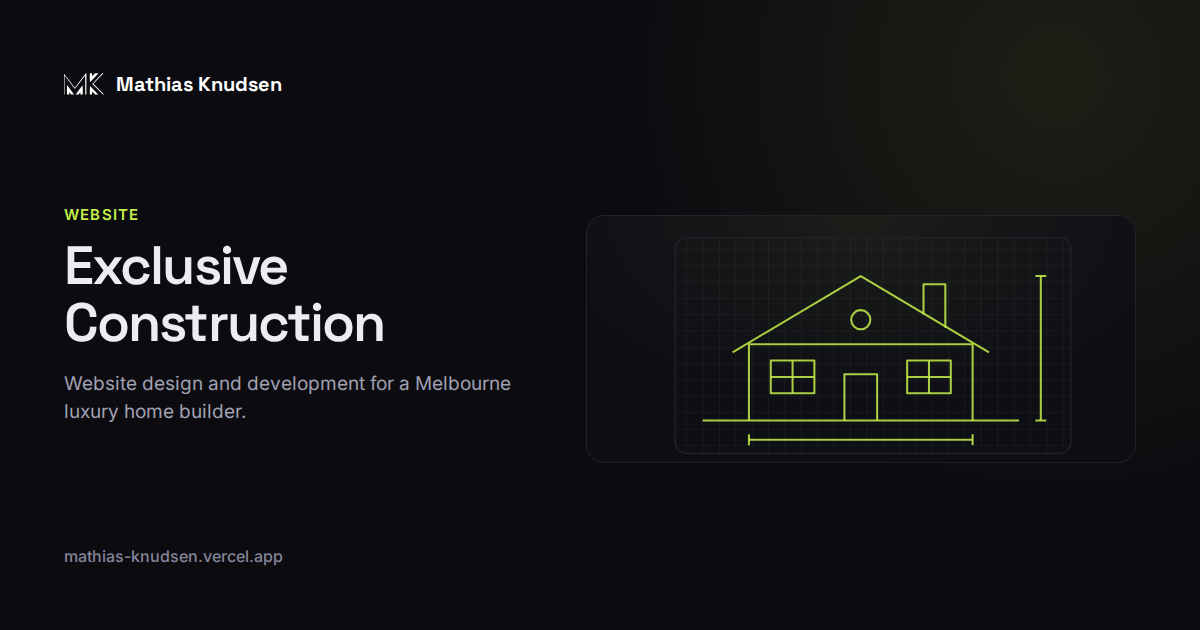
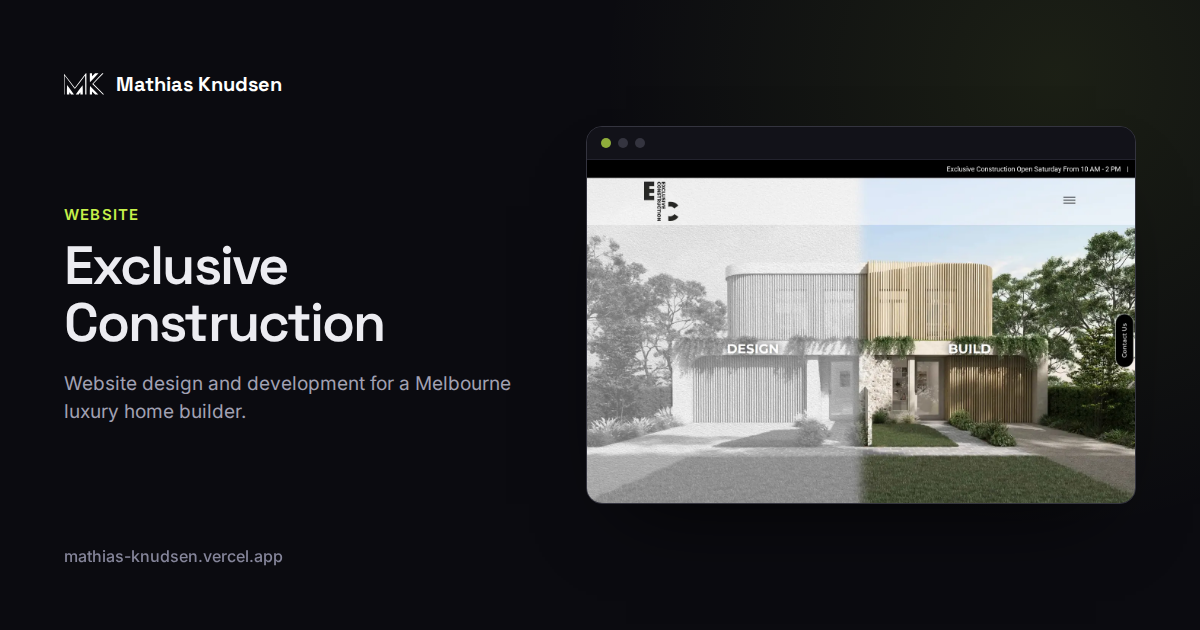
Screens of the live sites for Pro-Ject Audio Australia, Pro-Ject Audio Systems and Exclusive Construction
- Each page now opens on the real site, followed by its screens (six or
  seven desktop views and two phone views), described and captioned in
  English and French
- Pro-Ject Audio Australia and Interdyn are the same client: both case
  studies now say it
- Their link previews show the real site instead of the drawing

Claude-Session: https://claude.ai/code/session_01Af4ypNwssAxvDeozZygU7V

Changed region(s): [[0.4625, 0.2413, 0.9558, 0.8143], [0.0617, 0.8746, 0.2467, 0.9048], [0.4933, 0.2111, 0.555, 0.2413]]

diff --git a/src/i18n.js b/src/i18n.js
@@ -27,6 +27,42 @@ const INTERDYN_MEDIA = [
   { src: '/media/interdyn/checkout.webp', width: 1440, height: 713 },
 ]
 
+// Pro-Ject Audio Australia, Pro-Ject Audio Systems and Exclusive Construction:
+// screens of the live sites
+const PROJECT_AU_MEDIA = [
+  { src: '/media/project-au/home.webp', width: 1440, height: 900 },
+  { src: '/media/project-au/menu.webp', width: 1440, height: 900 },
+  { src: '/media/project-au/black-friday.webp', width: 1440, height: 900 },
+  { src: '/media/project-au/systems.webp', width: 1440, height: 900 },
+  { src: '/media/project-au/product.webp', width: 1440, height: 900 },
+  { src: '/media/project-au/turntables.webp', width: 1440, height: 900 },
+  { src: '/media/project-au/phone-home.webp', width: 780, height: 1688, phone: true },
+  { src: '/media/project-au/phone-product.webp', width: 780, height: 1688, phone: true },
+]
+
+const PROJECT_GLOBAL_MEDIA = [
+  { src: '/media/project-global/debut-evo-2.webp', width: 1440, height: 900 },
+  { src: '/media/project-global/turntables.webp', width: 1440, height: 900 },
+  { src: '/media/project-global/whats-new.webp', width: 1440, height: 900 },
+  { src: '/media/project-global/home.webp', width: 1440, height: 900 },
+  { src: '/media/project-global/sustainable-hifi.webp', width: 1440, height: 900 },
+  { src: '/media/project-global/true-balanced.webp', width: 1440, height: 900 },
+  { src: '/media/project-global/phone-home.webp', width: 780, height: 1688, phone: true },
+  { src: '/media/project-global/phone-product.webp', width: 780, height: 1688, phone: true },
+]
+
+const EXCLUSIVE_MEDIA = [
+  { src: '/media/exclusive/home.webp', width: 1440, height: 900 },
+  { src: '/media/exclusive/intro.webp', width: 1440, height: 900 },
+  { src: '/media/exclusive/portfolio.webp', width: 1440, height: 900 },
+  { src: '/media/exclusive/suburb.webp', width: 1440, height: 900 },
+  { src: '/media/exclusive/consultation.webp', width: 1440, height: 900 },
+  { src: '/media/exclusive/process.webp', width: 1440, height: 900 },
+  { src: '/media/exclusive/faq.webp', width: 1440, height: 900 },
+  { src: '/media/exclusive/phone-home.webp', width: 780, height: 1688, phone: true },
+  { src: '/media/exclusive/phone-suburb.webp', width: 780, height: 1688, phone: true },
+]
+
 // Pairs the shared media with the text of one language
 const withText = (media, texts) => media.map((item, i) => ({ ...item, ...texts[i] }))
 
@@ -171,7 +207,7 @@ const translations = {
         summary: 'Dealernet, the platform where Australian hi-fi retailers order from their distributor, Interdyn. I have been building it, end to end, since 2024.',
         story: [
           'Interdyn (International Dynamics) distributes hi-fi and audiovisual brands to retailers across Australia. Its dealers needed one place to browse the range, order stock and follow their orders, and its team needed to work in that same place on their behalf.',
-          "Dealernet is the platform I build for them, from the database to the interface: a catalogue organised by category and by brand, a cart and checkout made for trade orders, and the tools Interdyn's team uses to place and adjust orders for any dealer.",
+          "Dealernet is the platform I build for them, from the database to the interface: a catalogue organised by category and by brand, a cart and checkout made for trade orders, and the tools Interdyn's team uses to place and adjust orders for any dealer. For the same client, I also built and run the Pro-Ject Audio Australia store.",
         ],
         did: [
           'Fullstack development since 2024: Django and PostgreSQL behind, React and HTMX in front, styled with Tailwind',
@@ -203,8 +239,8 @@ const translations = {
         desc: 'Custom Shopify theme for the official Australian distributor of Pro-Ject turntables and audio components. Product pages, landing pages, seasonal campaigns, and a full Black Friday promotional experience, coded by hand from a bespoke Figma design.',
         summary: 'Custom Shopify theme for the official Australian distributor of Pro-Ject turntables and audio components.',
         story: [
-          'Pro-Ject Audio Australia is the online store of Pro-Ject in Australia, run by its official distributor. It sells the whole range: turntables from entry level to high end, complete hi-fi systems, electronics and accessories, with a store finder for people who want to listen before they buy.',
-          'I built the store from end to end: a Shopify theme coded by hand in Liquid, JavaScript and CSS from a bespoke Figma design, then every page and campaign since 2024, from product pages and landing pages to seasonal specials and Black Friday.',
+          'Pro-Ject Audio Australia is the online store of Pro-Ject in Australia, run by its official distributor, Interdyn. It sells the whole range: turntables from entry level to high end, complete hi-fi systems, electronics and accessories, with a store finder for people who want to listen before they buy.',
+          'I built the store from end to end: a Shopify theme coded by hand in Liquid, JavaScript and CSS from a bespoke Figma design, then every page and campaign since 2024, from product pages and landing pages to seasonal specials and Black Friday. For the same client, I also build Dealernet, the platform its dealers order from.',
         ],
         did: [
           'A custom Shopify theme, coded by hand in Liquid, JavaScript and CSS from a bespoke Figma design',
@@ -220,6 +256,16 @@ const translations = {
           { title: 'Systems sold as one product', text: 'Complete systems, from the Juke Box E1 Hi-Fi Set to the Classic Debut Hi-Fi Pack, are sold as one product: the card gives a one-line summary, the finishes it comes in, and the price before and after the saving.' },
           { title: 'Two ways into the range', text: 'The range can be browsed by budget and use (budget friendly, designer value, all-rounders, high end) or by product line (Debut, Primary, E Line, T Line, Juke Box): one way for a first turntable, one for someone who already knows the names.' },
         ],
+        gallery: withText(PROJECT_AU_MEDIA, [
+          { alt: 'Home page of the Pro-Ject Audio Australia store: a turntable between two speakers under the headline The very best of both worlds, below a menu with Specials, Turntables, Hi-Fi Sets, Hi-Fi Components and Find a Store', caption: 'The home page, with the specials and the store finder one click away.' },
+          { alt: 'The Hi-Fi Components menu open: each category with an icon and one line saying what it is for', caption: 'The menu explains each category in one line.' },
+          { alt: 'Black Friday 2025 page: the end of the sale, free shipping, 1 to 3 day dispatch and Australian support, then the discount on each turntable line', caption: 'Black Friday, on its own page: the offers line by line.' },
+          { alt: 'Turntable hi-fi systems: the Juke Box E1 Hi-Fi Set, the Classic Debut Hi-Fi Pack and the T2 Super Set, each with its finishes', caption: 'Complete systems, each card with its finishes.' },
+          { alt: 'Product page of the Juke Box E1 Hi-Fi Set: the photos, the finish picker, a Where to buy button and what is included', caption: "A system's page: pick a finish, see what is included, find where to buy." },
+          { alt: 'Turntables page: the product lines (Primary, E Line, T Line), each with a photo and a short promise', caption: 'Turntables, line by line.' },
+          { alt: 'The home page on a phone', caption: 'On a phone: the home page and a product page.' },
+          { alt: 'The Juke Box E1 Hi-Fi Set page on a phone' },
+        ]),
         tags: ['Shopify', 'Liquid', 'JavaScript', 'CSS'],
         link: 'https://www.projectaudio.com.au/',
       },
@@ -246,6 +292,16 @@ const translations = {
           { title: 'Two languages, one catalogue', text: 'Every page exists in German and English, linked to each other for search engines (hreflang), so each visitor lands in their own language.' },
           { title: 'Everything after the purchase', text: 'Owners find what they need in one place: a dealer finder, the FAQ, the warranty, software updates, manuals and brochures to download, and an archive of past models.' },
         ],
+        gallery: withText(PROJECT_GLOBAL_MEDIA, [
+          { alt: 'Debut EVO 2 product page: the turntable on a white plinth under its name, with Configurator, Buy local and Buy now buttons, and links to the specifications, downloads and reviews', caption: 'A product page: the Debut EVO 2, with its configurator and where to buy it.' },
+          { alt: 'Turntables page: the product lines listed on the left (Automat, E Line, Vertical, Juke Box, T Line, Debut and more) next to a photo of a blue turntable', caption: 'Turntables, sorted by line.' },
+          { alt: "Debut EVO 2 page, What's new: four features (the platter, the bearing block, the Pick it MM EVO cartridge, the counterweight) drawn in line", caption: 'What is new, feature by feature.' },
+          { alt: 'Home page: a limited edition turntable presented on black', caption: 'The home page leads with launches and limited editions.' },
+          { alt: 'Sustainable HiFi page: a map of central Europe showing that 95% of the goods are made within 440 km of the headquarters', caption: "Sustainable hi-fi: the brand's story, told with a map." },
+          { alt: 'True Balanced page: an illustration of the electrical noise around a turntable in a modern home', caption: 'True Balanced: a technical idea made visual.' },
+          { alt: 'The home page on a phone', caption: 'On a phone: the home page and a product page.' },
+          { alt: 'The Debut EVO 2 page on a phone' },
+        ]),
         tags: ['WordPress', 'CSS', 'JavaScript', 'WooCommerce'],
         link: 'https://www.project-audio.com/en/',
       },
@@ -274,6 +330,17 @@ const translations = {
           { title: 'Questions answered before the call', text: 'The home page answers the questions every client asks first (do you only build luxury homes, can you build from my plans, how do I start), and the quote form is on the same page.' },
           { title: 'Proof from real clients', text: 'Their Google reviews show on the site itself, next to their trusted partners: trust comes from the people who have already built with them.' },
         ],
+        gallery: withText(EXCLUSIVE_MEDIA, [
+          { alt: 'Home page of Exclusive Construction: a house drawn in pencil on the left that becomes a photo on the right, under the words Design and Build', caption: 'The home page: the design on one side, the built house on the other.' },
+          { alt: "Introduction: the builder's promise above photos of finished interiors", caption: 'Finished work, right after the promise.' },
+          { alt: 'Portfolio page: Excellence in construction, above a grid of kitchen and bathroom photos', caption: 'The portfolio: the work does the talking.' },
+          { alt: 'Home Builders Bentleigh page: a living room photo with Book a consultation and Call now buttons', caption: 'A page for each suburb they build in, here Bentleigh.' },
+          { alt: 'Bentleigh page: Build your dream home, next to a Book a free consultation form', caption: 'A consultation form right on the suburb page.' },
+          { alt: 'A structured and seamless build process: four numbered steps, from consultation and planning to handover', caption: 'The build process, in four steps.' },
+          { alt: 'FAQ: five questions, from do you only build luxury homes to are you a design and build company', caption: 'The questions every client asks, answered before the call.' },
+          { alt: 'The home page on a phone', caption: 'On a phone: the home page and a suburb page.' },
+          { alt: 'The Bentleigh page on a phone' },
+        ]),
         tags: ['WordPress', 'Elementor', 'CSS', 'JavaScript'],
         link: 'https://exclusiveconstruction.com.au/',
       },
@@ -628,7 +695,7 @@ const translations = {
         summary: "Dealernet, la plateforme où les revendeurs hi-fi australiens commandent à leur distributeur, Interdyn. Je la développe de bout en bout depuis 2024.",
         story: [
           "Interdyn (International Dynamics) distribue des marques hi-fi et audiovisuelles auprès des revendeurs de toute l'Australie. Ses revendeurs avaient besoin d'un seul endroit pour parcourir la gamme, commander du stock et suivre leurs commandes, et son équipe devait pouvoir y travailler à leur place.",
-          "Dealernet est la plateforme que je développe pour eux, de la base de données à l'interface : un catalogue organisé par catégorie et par marque, un panier et un tunnel de commande pensés pour les professionnels, et les outils avec lesquels l'équipe d'Interdyn passe et ajuste les commandes de n'importe quel revendeur.",
+          "Dealernet est la plateforme que je développe pour eux, de la base de données à l'interface : un catalogue organisé par catégorie et par marque, un panier et un tunnel de commande pensés pour les professionnels, et les outils avec lesquels l'équipe d'Interdyn passe et ajuste les commandes de n'importe quel revendeur. Pour le même client, j'ai aussi construit la boutique Pro-Ject Audio Australia, que je fais vivre.",
         ],
         did: [
           'Développement fullstack depuis 2024 : Django et PostgreSQL côté serveur, React et HTMX côté interface, avec Tailwind',
@@ -660,8 +727,8 @@ const translations = {
         desc: "Thème Shopify sur mesure pour le distributeur officiel australien des platines et composants audio Pro-Ject. Pages produits, pages d'atterrissage, campagnes saisonnières et expérience Black Friday complète, codées à partir d'une maquette Figma sur mesure.",
         summary: 'Thème Shopify sur mesure pour le distributeur officiel australien des platines et composants audio Pro-Ject.',
         story: [
-          "Pro-Ject Audio Australia est la boutique en ligne de Pro-Ject en Australie, tenue par son distributeur officiel. Elle vend toute la gamme : des platines d'entrée de gamme au haut de gamme, des systèmes hi-fi complets, de l'électronique et des accessoires, avec un localisateur de magasins pour ceux qui veulent écouter avant d'acheter.",
-          "J'ai construit la boutique de bout en bout : un thème Shopify codé à la main en Liquid, JavaScript et CSS à partir d'une maquette Figma sur mesure, puis chaque page et chaque campagne depuis 2024, des pages produits et pages d'atterrissage aux promotions saisonnières et au Black Friday.",
+          "Pro-Ject Audio Australia est la boutique en ligne de Pro-Ject en Australie, tenue par son distributeur officiel, Interdyn. Elle vend toute la gamme : des platines d'entrée de gamme au haut de gamme, des systèmes hi-fi complets, de l'électronique et des accessoires, avec un localisateur de magasins pour ceux qui veulent écouter avant d'acheter.",
+          "J'ai construit la boutique de bout en bout : un thème Shopify codé à la main en Liquid, JavaScript et CSS à partir d'une maquette Figma sur mesure, puis chaque page et chaque campagne depuis 2024, des pages produits et pages d'atterrissage aux promotions saisonnières et au Black Friday. Pour le même client, je développe aussi Dealernet, la plateforme où ses revendeurs commandent.",
         ],
         did: [
           "Un thème Shopify sur mesure, codé à la main en Liquid, JavaScript et CSS à partir d'une maquette Figma sur mesure",
@@ -677,6 +744,16 @@ const translations = {
           { title: 'Des systèmes vendus comme un seul produit', text: 'Les systèmes complets, du Juke Box E1 Hi-Fi Set au Classic Debut Hi-Fi Pack, sont vendus comme un seul produit : la fiche donne un résumé en une ligne, les finitions disponibles, et le prix avant et après remise.' },
           { title: 'Deux entrées dans la gamme', text: 'On peut parcourir la gamme par budget et par usage (petit budget, design, polyvalentes, haut de gamme) ou par ligne de produits (Debut, Primary, E Line, T Line, Juke Box) : une entrée pour une première platine, une autre pour qui connaît déjà les noms.' },
         ],
+        gallery: withText(PROJECT_AU_MEDIA, [
+          { alt: "Page d'accueil de la boutique Pro-Ject Audio Australia : une platine entre deux enceintes sous le titre The very best of both worlds, sous un menu avec Specials, Turntables, Hi-Fi Sets, Hi-Fi Components et Find a Store", caption: "L'accueil, avec les promotions et le localisateur de magasins à un clic." },
+          { alt: 'Le menu Hi-Fi Components ouvert : chaque catégorie avec une icône et une ligne qui dit à quoi elle sert', caption: 'Le menu explique chaque catégorie en une ligne.' },
+          { alt: "Page Black Friday 2025 : la fin des soldes, la livraison offerte, l'expédition sous 1 à 3 jours et le support australien, puis la remise de chaque gamme de platines", caption: 'Le Black Friday, sur sa propre page : les offres gamme par gamme.' },
+          { alt: 'Systèmes hi-fi : le Juke Box E1 Hi-Fi Set, le Classic Debut Hi-Fi Pack et le T2 Super Set, chacun avec ses finitions', caption: 'Les systèmes complets, chaque fiche avec ses finitions.' },
+          { alt: 'Page produit du Juke Box E1 Hi-Fi Set : les photos, le choix de la finition, un bouton Where to buy et le contenu du pack', caption: "La page d'un système : choisir sa finition, voir ce qui est inclus, trouver où l'acheter." },
+          { alt: 'Page des platines : les lignes de produits (Primary, E Line, T Line), chacune avec une photo et une courte promesse', caption: 'Les platines, ligne par ligne.' },
+          { alt: "La page d'accueil sur téléphone", caption: "Sur téléphone : l'accueil et une page produit." },
+          { alt: 'La page du Juke Box E1 Hi-Fi Set sur téléphone' },
+        ]),
         tags: ['Shopify', 'Liquid', 'JavaScript', 'CSS'],
         link: 'https://www.projectaudio.com.au/',
       },
@@ -703,6 +780,16 @@ const translations = {
           { title: 'Deux langues, un seul catalogue', text: 'Chaque page existe en allemand et en anglais, reliées entre elles pour les moteurs de recherche (hreflang), pour que chacun arrive dans sa langue.' },
           { title: "Tout ce qui vient après l'achat", text: 'Les propriétaires trouvent tout au même endroit : un localisateur de revendeurs, la FAQ, la garantie, les mises à jour logicielles, les notices et brochures à télécharger, et les archives des anciens modèles.' },
         ],
+        gallery: withText(PROJECT_GLOBAL_MEDIA, [
+          { alt: 'Page produit de la Debut EVO 2 : la platine sur un socle blanc sous son nom, avec les boutons Configurator, Buy local et Buy now, et des liens vers les caractéristiques, les téléchargements et les avis', caption: "Une page produit : la Debut EVO 2, avec son configurateur et où l'acheter." },
+          { alt: "Page des platines : les lignes de produits à gauche (Automat, E Line, Vertical, Juke Box, T Line, Debut et d'autres) à côté de la photo d'une platine bleue", caption: 'Les platines, classées par ligne.' },
+          { alt: "Page de la Debut EVO 2, What's new : quatre nouveautés (le plateau, le palier, la cellule Pick it MM EVO, le contrepoids) dessinées au trait", caption: 'Les nouveautés, une par une.' },
+          { alt: "Page d'accueil : une platine en édition limitée présentée sur fond noir", caption: "L'accueil met en avant les lancements et les éditions limitées." },
+          { alt: "Page Sustainable HiFi : une carte de l'Europe centrale montrant que 95 % des produits sont fabriqués à moins de 440 km du siège", caption: "La hi-fi durable : l'histoire de la marque, racontée avec une carte." },
+          { alt: "Page True Balanced : une illustration des parasites électriques autour d'une platine dans une maison moderne", caption: 'True Balanced : une idée technique rendue visuelle.' },
+          { alt: "La page d'accueil sur téléphone", caption: "Sur téléphone : l'accueil et une page produit." },
+          { alt: 'La page de la Debut EVO 2 sur téléphone' },
+        ]),
         tags: ['WordPress', 'CSS', 'JavaScript', 'WooCommerce'],
         link: 'https://www.project-audio.com/en/',
       },
@@ -731,6 +818,17 @@ const translations = {
           { title: "Les questions avant l'appel", text: "La page d'accueil répond aux questions que chaque client pose d'abord (construisez-vous seulement des maisons de luxe, pouvez-vous partir de mes plans, comment commencer), et le formulaire de devis est sur la même page." },
           { title: 'La preuve par les clients', text: "Leurs avis Google s'affichent sur le site même, à côté de leurs partenaires de confiance : la confiance vient de ceux qui ont déjà construit avec eux." },
         ],
+        gallery: withText(EXCLUSIVE_MEDIA, [
+          { alt: "Page d'accueil d'Exclusive Construction : une maison dessinée au crayon à gauche qui devient une photo à droite, sous les mots Design et Build", caption: "L'accueil : le dessin d'un côté, la maison construite de l'autre." },
+          { alt: "Introduction : la promesse du constructeur au-dessus de photos d'intérieurs finis", caption: 'Le travail fini, juste après la promesse.' },
+          { alt: "Page portfolio : Excellence in construction, au-dessus d'une grille de photos de cuisines et de salles de bains", caption: 'Le portfolio : le travail parle de lui-même.' },
+          { alt: "Page Home Builders Bentleigh : la photo d'un salon avec les boutons Book a consultation et Call now", caption: 'Une page pour chaque quartier où ils construisent, ici Bentleigh.' },
+          { alt: "Page Bentleigh : Build your dream home, à côté d'un formulaire Book a free consultation", caption: 'Un formulaire de consultation directement sur la page du quartier.' },
+          { alt: 'Un processus de construction structuré : quatre étapes numérotées, de la consultation à la remise des clés', caption: 'Le processus de construction, en quatre étapes.' },
+          { alt: 'FAQ : cinq questions, de construisez-vous seulement des maisons de luxe à êtes-vous une entreprise de conception et construction', caption: "Les questions que chaque client pose, avec leurs réponses avant l'appel." },
+          { alt: "La page d'accueil sur téléphone", caption: "Sur téléphone : l'accueil et une page de quartier." },
+          { alt: 'La page Bentleigh sur téléphone' },
+        ]),
         tags: ['WordPress', 'Elementor', 'CSS', 'JavaScript'],
         link: 'https://exclusiveconstruction.com.au/',
       },
